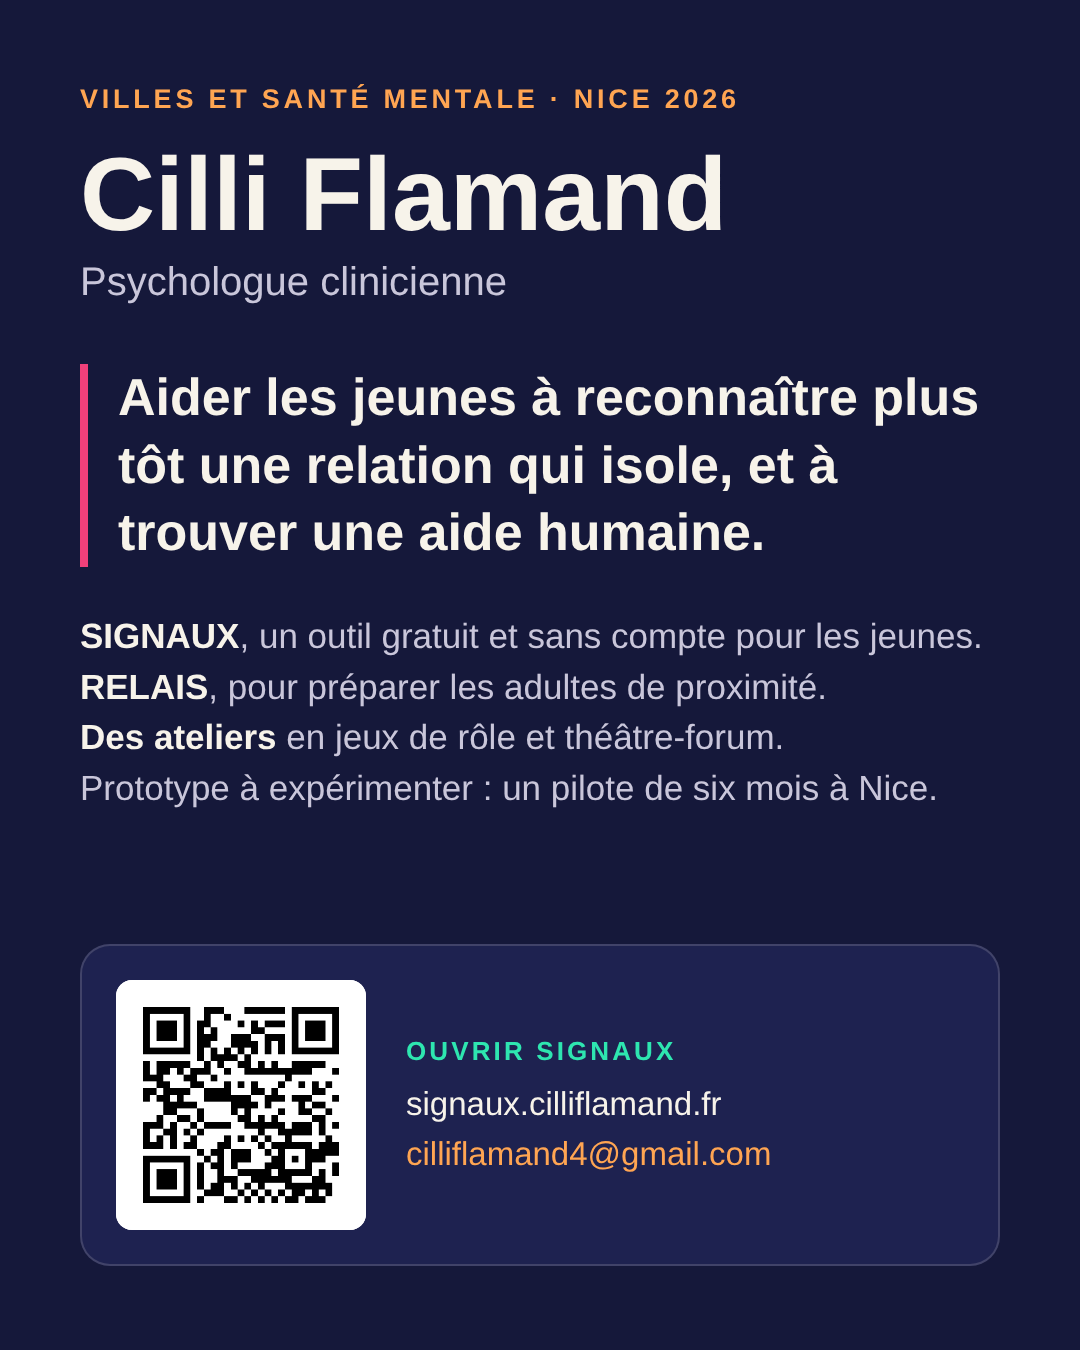
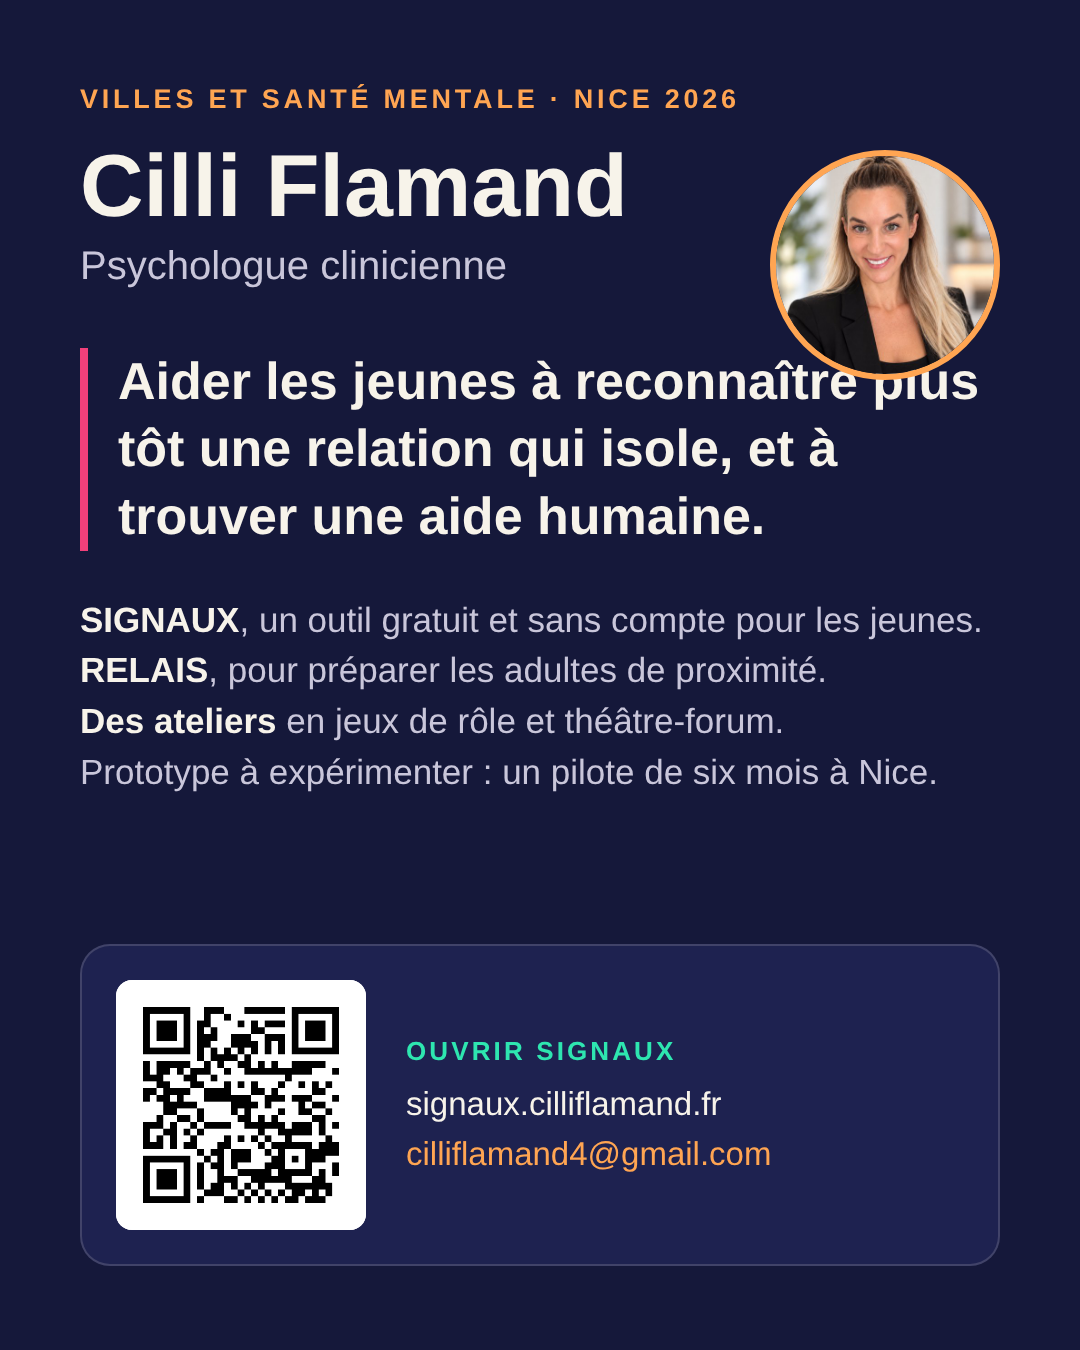
Carte : portrait
Claude-Session: https://claude.ai/code/session_01CRhxumX8nmXyB398Uv9TSc

Changed region(s): [[0.0917, 0.0933, 0.9472, 0.4044], [0.0611, 0.4356, 0.9167, 0.5911], [0.0611, 0.0933, 0.6722, 0.2178]]

diff --git a/carte.html b/carte.html
@@ -57,6 +57,7 @@
   .qr img{width:132px;height:132px;flex:none;border-radius:10px;background:#fff;display:block}
   .qr p{margin:0;font-size:.98rem}
   .qr b{display:block;font-size:1.05rem;margin-bottom:2px}
+  .portrait{width:116px;height:116px;border-radius:50%;object-fit:cover;display:block;margin:0 0 16px;border:3px solid var(--abricot)}
   .affiche{display:block;margin:26px 0 10px}
   .affiche img{width:100%;height:auto;display:block;border-radius:16px;border:1px solid var(--trait)}
   footer{margin-top:28px;padding-top:18px;border-top:1px solid var(--trait);font-size:.9rem;color:var(--doux)}
@@ -66,6 +67,7 @@
 <body>
 <main>
   <p class="surtitre">Colloque international Villes et Santé mentale · Nice 2026</p>
+  <img class="portrait" src="cilli-flamand.jpg" width="480" height="480" alt="Portrait de Cilli Flamand">
   <h1>Cilli Flamand</h1>
   <p class="role">Psychologue clinicienne · violences psychologiques et contrôle coercitif</p>
 
